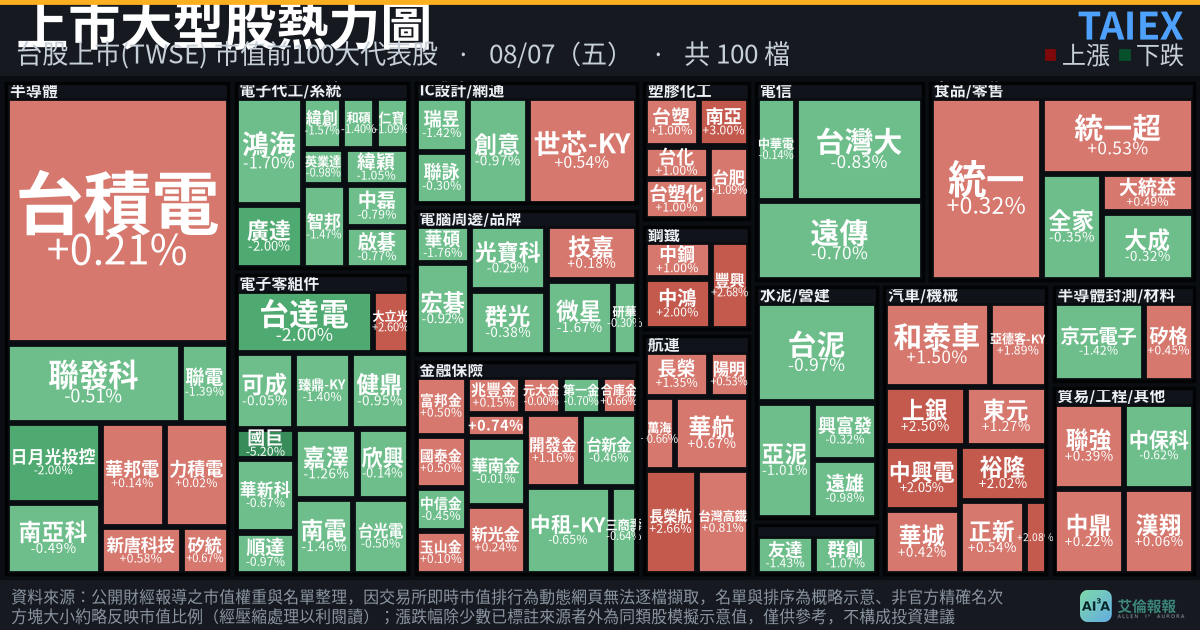
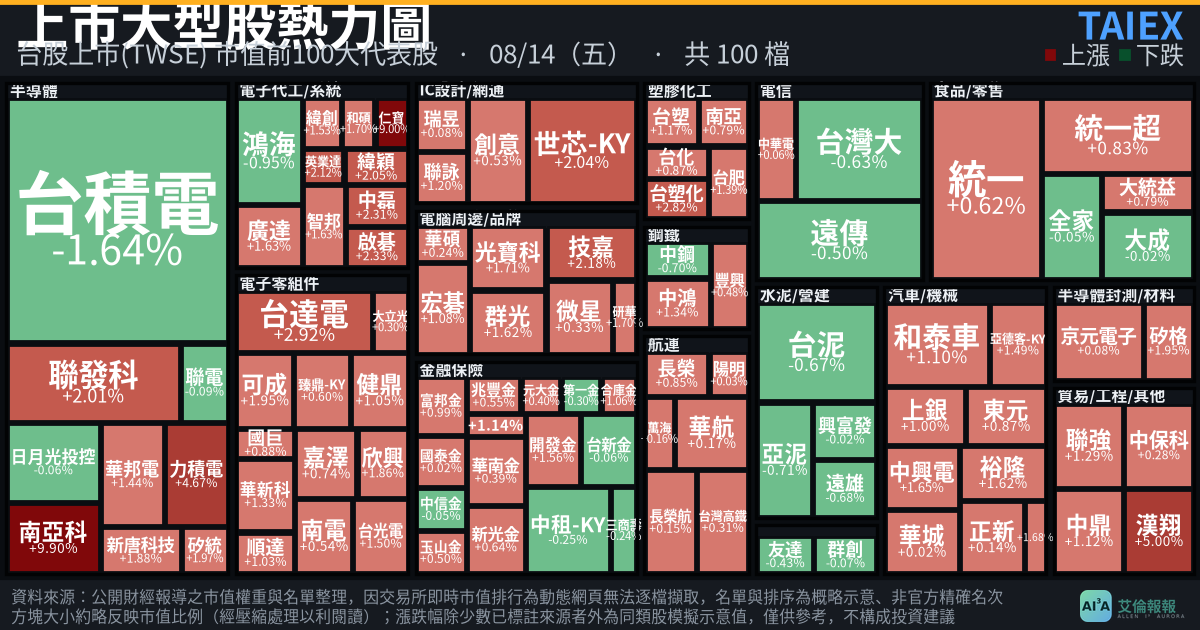
feat(heatmap): 熱力圖更新至 2026/08/14 收盤，前一日移入歷期彙整，排程改每交易日 19:00 (#56)
- data/heatmap.json → 2026.08.14（加權 45,811.01 -0.46%、櫃買 400.95 -1.27%）
- 前一日 2026.08.07 圖卡＋資訊移入 data/heatmap-archive.json 與 archive/
- 四張站內圖（TWSE/TPEx × FB/IG）更新為 08/14；同步 focus.json 熱力圖卡
- docs：排程時間 20:00 → 19:00（cron 0 11 * * 1-5），payload 補充選填 desc 欄位

diff --git a/docs/heatmap-daily-schedule.md b/docs/heatmap-daily-schedule.md
@@ -1,6 +1,6 @@
-# 台股熱力圖 · 每日 20:00 自動更新排程
+# 台股熱力圖 · 每日 19:00 自動更新排程
 
-「台股熱力圖 · 上市／上櫃」每個交易日下午 **20:00（台北時間）** 自動更新為當日
+「台股熱力圖 · 上市／上櫃」每個交易日下午 **19:00（台北時間）** 自動更新為當日
 最新收盤，並把前一日圖卡移入前台「歷期彙整」。
 
 ## 為什麼用 Claude 排程（而非純 GitHub Actions）
@@ -23,24 +23,28 @@ Remote 定時任務（每次觸發開新的 Claude session）** 執行，session
 
 ## 排程時間
 
-- 觸發：`cron 0 12 * * 1-5`（UTC）＝ 台北時間 **週一至週五 20:00**。
-- 台股 09:00–13:30 交易、約 15:00 盤後資料確認，20:00 執行可取得當日確定收盤。
+- 觸發：`cron 0 11 * * 1-5`（UTC）＝ 台北時間 **週一至週五 19:00**。
+- 台股 09:00–13:30 交易、約 15:00 盤後資料確認，19:00 執行可取得當日確定收盤。
 - 遇國定假日／無新交易日，session 會自行判斷並跳過（不產生 commit）。
 
 ## payload.json 範例
 
 ```json
 {
-  "date": "2026.08.07",
-  "dateLabel": "2026/08/07（五）",
-  "asOf": "2026.08.07",
-  "taiex": { "index": "44,225.91", "change": "-170.79", "changePct": "-0.38%", "up": false },
-  "tpex":  { "index": "384.19",   "change": "-7.18",   "changePct": "-1.83%", "up": false },
-  "summary": "【理財】台股熱力圖 · 上市／上櫃｜2026.08.07 …",
+  "date": "2026.08.14",
+  "dateLabel": "2026/08/14（五）",
+  "asOf": "2026.08.14",
+  "desc": "台積電殺尾翻黑，指數跌210點、量1.06兆",
+  "taiex": { "index": "45,811.01", "change": "-210.47", "changePct": "-0.46%", "up": false },
+  "tpex":  { "index": "400.95",   "change": "-5.17",   "changePct": "-1.27%", "up": false },
+  "summary": "【理財】台股熱力圖 · 上市／上櫃｜2026.08.14 …",
   "hashtags": "#台股 #台股熱力圖 #市值熱力圖 #上市 #上櫃 #艾倫報報 #AllenI3Aurora",
-  "note": "加權指數為證交所 2026/08/07 收盤資料…資料僅供參考，不構成投資建議。"
+  "note": "加權指數為證交所 2026/08/14 收盤資料…資料僅供參考，不構成投資建議。"
 }
 ```
+
+> `desc` 為選填：首頁「今日關注動態」熱力圖卡的約 10–15 字簡述，`rotate-heatmap.mjs`
+> 會一併同步 `data/focus.json` 該則的 `desc／summary／meta`；未提供則沿用舊 `desc`。
 
 ## 相關檔案
 
